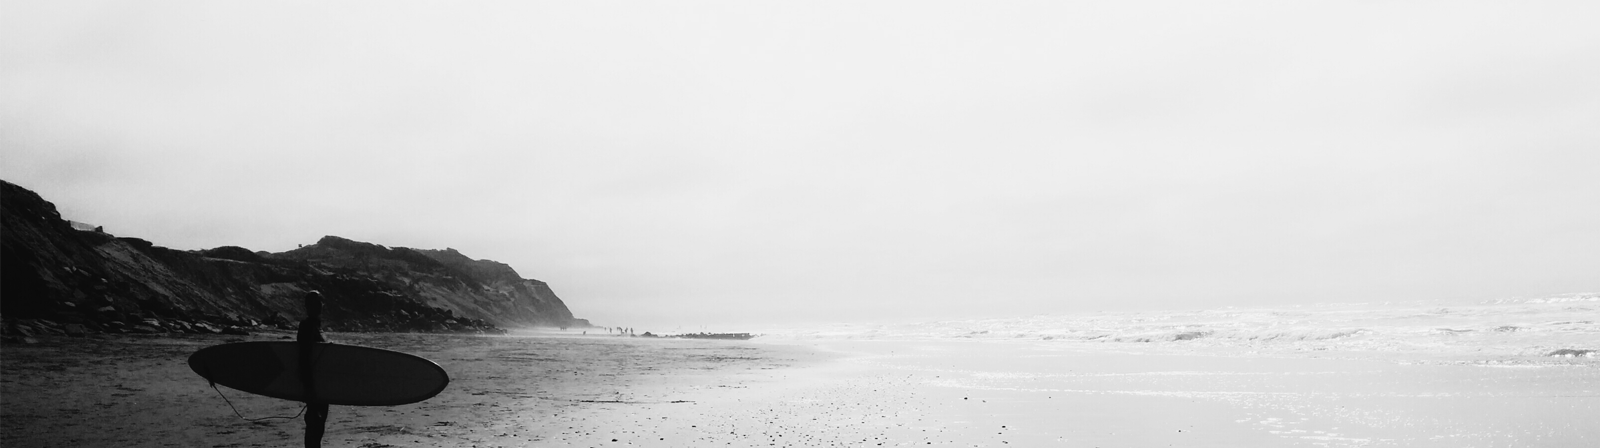
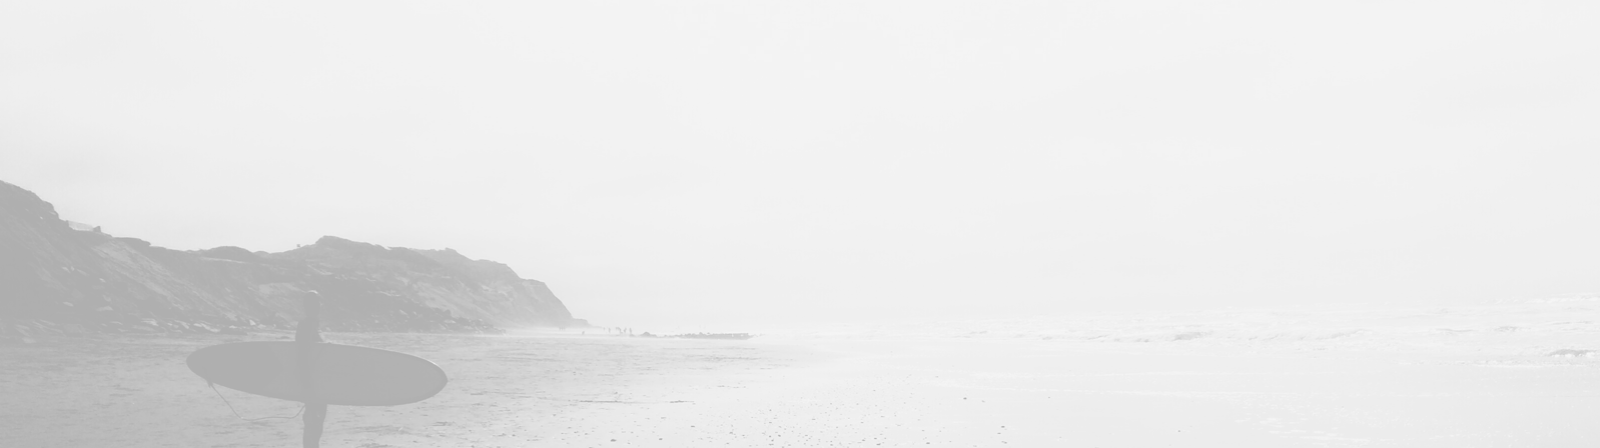
in hw_12 added part of hw_16

diff --git a/homework_11_12/index.html b/homework_11_12/index.html
@@ -168,15 +168,16 @@
     </section>
 
     <section class="subscribe">
-        <div class="subscribe-box__img">
+        <!-- <div class="subscribe-box__img">
             <img src="./assets/images/subscribe.png" alt="subscribe">
             <div class="bg"></div>
-            <!-- </div>
-        <img src="./assets/images/subscribe.png" alt="subscribe">
+        </div> -->
         <div class="subscribe-items center">
             <div class="subscribe-items__descr">
                 <img src="./assets/images/face_foto.svg" alt="face_foto">
-                <p>“Vestibulum quis porttitor dui! Quisque viverra nunc mi, a pulvinar purus condimentum“</p>
+                <p class="subscribe-items__descr__text">“Vestibulum quis porttitor dui! Quisque viverra nunc mi, <span
+                        style='font-style:italic;'>a
+                        pulvinar</span> purus condimentum“</p>
             </div>
             <div>
                 <h3>SUBSCRIBE</h3>
@@ -186,8 +187,9 @@
                     <input type="button" value="Subscribe">
                 </form>
             </div>
+        </div>
 
-        </div> -->
+        </div>
 
     </section>
 

diff --git a/homework_11_12/assets/style/style.css b/homework_11_12/assets/style/style.css
@@ -342,41 +342,41 @@ header {
 }
 
 
-/* .subscribe {
-    position: relative;
-  } */
+.subscribe {
+    background-image: url('../images/subscribe.png');
+    background-position: center;
+    background-size: cover;
+}
 
-  .subscribe-box__img {
-    position: relative;
-  }
   
-  .bg {
-    content: "";
-    position: absolute;
-    top: 0;
-    left: 0;
-    width: 100%;
-    height: 100%;
-    background: rgba(244, 244, 244, 0.70);
-
-  }
-
-  .subscribe img {
-    display: block;
-    width: 100%;
-    height: auto;
-  }
 
   .subscribe-items {
     display: flex;
     justify-content: space-between;
     align-items: center;
+    padding-top: 97px;
+    padding-bottom: 126px;
+    gap: 365px;
   }
 
   .subscribe-items img {
     width: 96px;
   }
 
+  .subscribe-items__descr {
+    text-align: center;
+  }
+
+  .subscribe-items__descr__text {
+    color: #222224;
+    font-family: Lato;
+    font-size: 20px;
+    font-style: normal;
+    font-weight: 400;
+    line-height: normal;
+    padding-top: 30px;
+    max-width: 360px;
+  }
   
   
 
